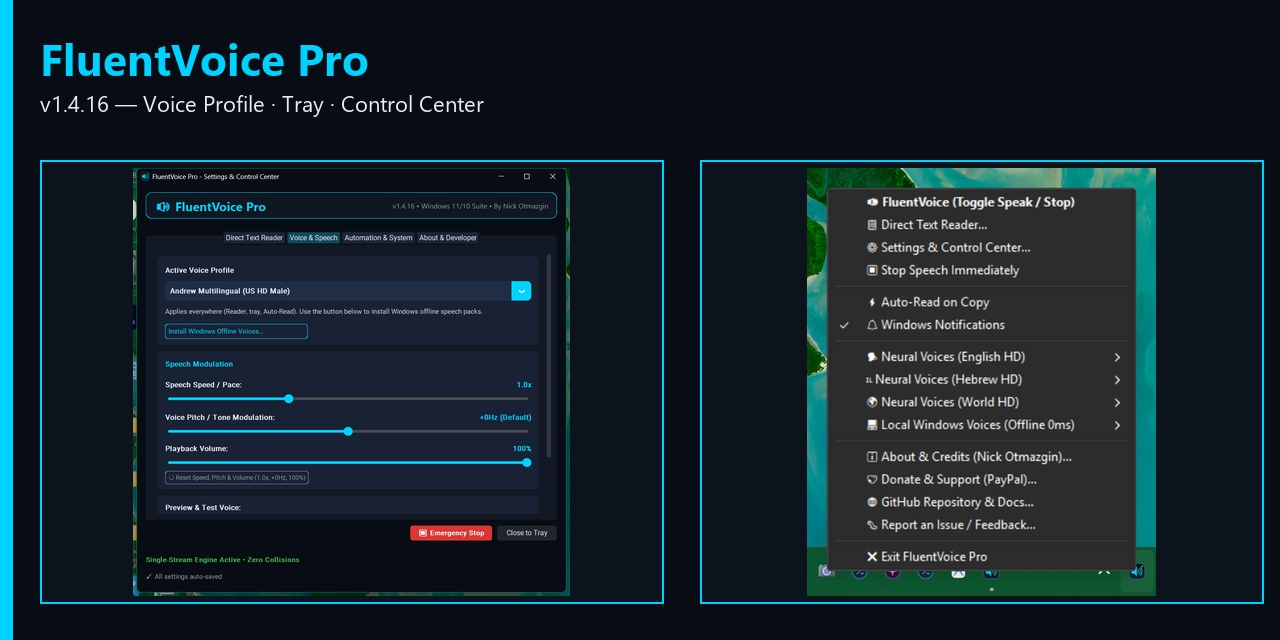
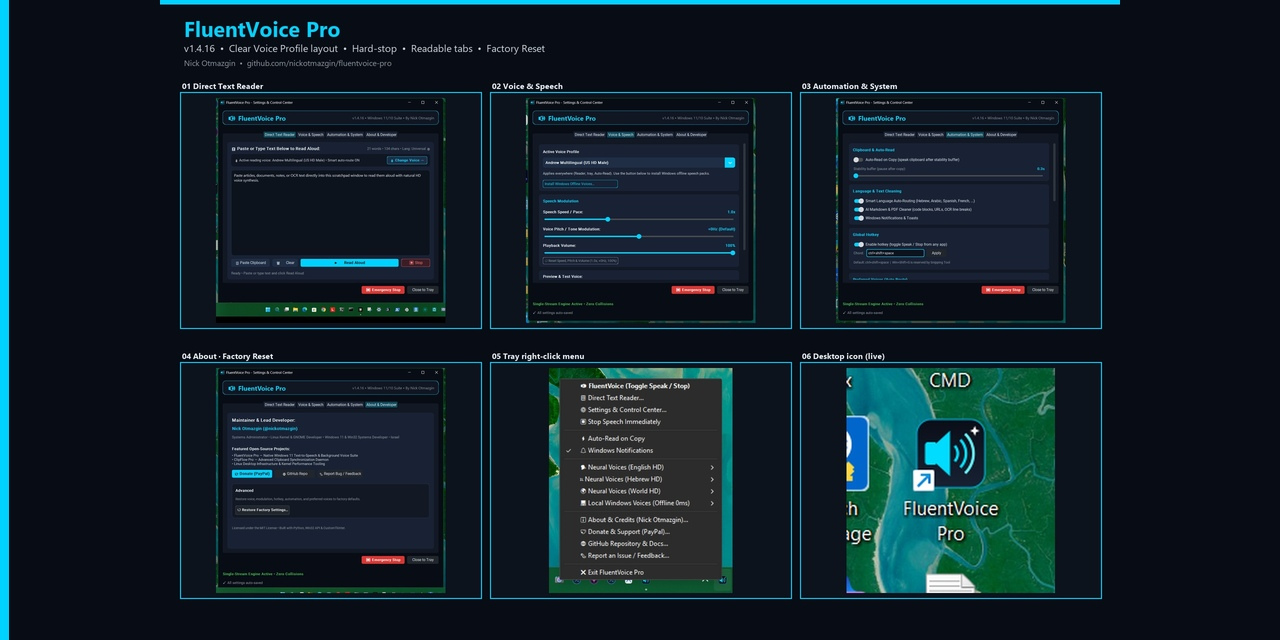
fix(docs): use full collage for GitHub social preview OG

diff --git a/scripts/capture-v1.4.16-screens.py b/scripts/capture-v1.4.16-screens.py
@@ -191,23 +191,12 @@ def main():
             sq.paste(b, pos)
         sq.save(OUT / "social-collage-1080-v1.4.16.jpg", "JPEG", quality=96, optimize=True)
 
-        # OG 1280x640
+        # OG 1280x640 — letterbox the full 6-panel collage (not a 2-panel substitute)
         og = Image.new("RGB", (1280, 640), (8, 12, 20))
-        do = ImageDraw.Draw(og)
-        do.rectangle((0, 0, 12, 640), fill=(0, 210, 255))
-        do.text((40, 28), "FluentVoice Pro", fill=(0, 210, 255), font=font(44, True))
-        do.text(
-            (40, 88),
-            "v1.4.16 — Voice Profile · Tray · Control Center",
-            fill=(230, 237, 243),
-            font=font(22),
-        )
-        L = fit(shots["voice"], (620, 440), 6)
-        R = fit(shots["tray"], (560, 440), 6)
-        for im, pos in [(L, (40, 160)), (R, (700, 160))]:
-            b = Image.new("RGB", (im.width + 4, im.height + 4), (0, 210, 255))
-            b.paste(im, (2, 2))
-            og.paste(b, pos)
+        fitted = bg.copy()
+        fitted.thumbnail((1280, 640), Image.Resampling.LANCZOS)
+        og.paste(fitted, ((1280 - fitted.width) // 2, (640 - fitted.height) // 2))
+        ImageDraw.Draw(og).rectangle((0, 0, 8, 640), fill=(0, 210, 255))
         og.save(OUT / "social-preview-1280x640.jpg", "JPEG", quality=96, optimize=True)
         og.save(ROOT / "screenshots" / "social-preview.jpg", "JPEG", quality=96, optimize=True)
         print("collages OK")
